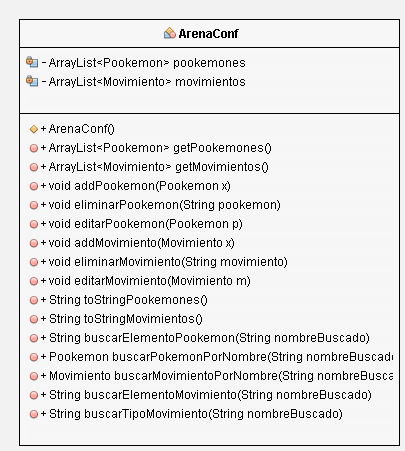
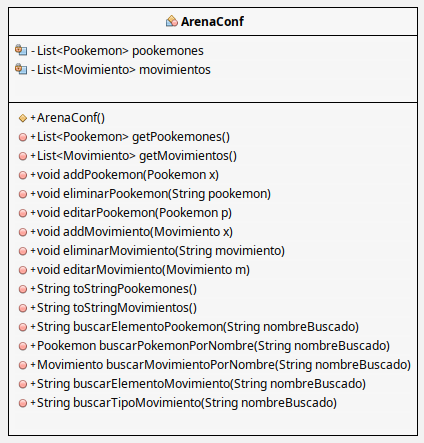
fix: diagramas de clases

Changed region(s): [[0.0, 0.0, 1.0, 0.9977]]

diff --git a/appPookemon/src/main/java/com/pml/appPookemon/datos/conf_arena/model/ArenaConf.java b/appPookemon/src/main/java/com/pml/appPookemon/datos/conf_arena/model/ArenaConf.java
@@ -2,6 +2,7 @@ package main.java.com.pml.appPookemon.datos.conf_arena.model;
 
 import java.io.Serializable;
 import java.util.ArrayList;
+import java.util.List;
 import main.java.com.pml.appPookemon.datos.pookemon.model.Movimiento;
 import main.java.com.pml.appPookemon.datos.pookemon.model.Pookemon;
 
@@ -9,19 +10,20 @@ import main.java.com.pml.appPookemon.datos.pookemon.model.Pookemon;
 
 public class ArenaConf implements Serializable{
 
-    private ArrayList<Pookemon> pookemones = new ArrayList<>();
-    private ArrayList<Movimiento> movimientos = new ArrayList<>();
+    private List<Pookemon> pookemones;
+    private List<Movimiento> movimientos;
 
     public ArenaConf() {
+        pookemones = new ArrayList<>();
+        movimientos = new ArrayList<>();
  
     }
     
-
-    public ArrayList<Pookemon> getPookemones() {
+    public List<Pookemon> getPookemones() {
         return pookemones;
     }
     
-    public ArrayList<Movimiento> getMovimientos() {
+    public List<Movimiento> getMovimientos() {
         return movimientos;
     }
     

diff --git a/appPookemon/src/main/java/com/pml/appPookemon/datos/conf_arena/controller/ArenaController.java b/appPookemon/src/main/java/com/pml/appPookemon/datos/conf_arena/controller/ArenaController.java
@@ -1,6 +1,7 @@
 package main.java.com.pml.appPookemon.datos.conf_arena.controller;
 
 import java.util.ArrayList;
+import java.util.List;
 import main.java.com.pml.appPookemon.datos.pookemon.model.Movimiento;
 import main.java.com.pml.appPookemon.datos.pookemon.model.Pookemon;
 import main.java.com.pml.appPookemon.datos.conf_arena.model.ArenaConf;
@@ -22,7 +23,7 @@ public class ArenaController {
         return arena;
     }
     
-    public ArrayList<Pookemon> getPookemones(){
+    public List<Pookemon> getPookemones(){
         return arena.getPookemones();
     }
     
@@ -41,7 +42,7 @@ public class ArenaController {
         organizadorController.setArena(arena);
     }
    
-    public ArrayList<Movimiento> getMovimientos(){
+    public List<Movimiento> getMovimientos(){
         return arena.getMovimientos();
     }
     

diff --git a/appPookemon/src/main/java/com/pml/appPookemon/datos/pookemon/model/RecuperarPPS.java b/appPookemon/src/main/java/com/pml/appPookemon/datos/pookemon/model/RecuperarPPS.java
@@ -10,7 +10,7 @@ import java.io.Serializable;
  *
  * @author sebac
  */
-public class RecuperarPPS extends Objeto implements Serializable{
+public class RecuperarPPS extends Objeto{
     
     public RecuperarPPS(int idObjeto) {
         super(idObjeto, "Recuperar PPs", "PPs", 5);

diff --git a/appPookemon/src/main/java/com/pml/appPookemon/datos/pookemon/model/Pocion.java b/appPookemon/src/main/java/com/pml/appPookemon/datos/pookemon/model/Pocion.java
@@ -10,7 +10,7 @@ import java.io.Serializable;
  *
  * @author sebac
  */
-public class Pocion extends Objeto implements Serializable{
+public class Pocion extends Objeto{
     
     public Pocion(int idObjeto) {
         super(idObjeto, "Pocion", "POCION", 20);

diff --git a/appPookemon/src/main/java/com/pml/appPookemon/datos/pookemon/model/Objeto.java b/appPookemon/src/main/java/com/pml/appPookemon/datos/pookemon/model/Objeto.java
@@ -4,7 +4,7 @@ import java.io.Serializable;
 
 
 
-public abstract class Objeto implements Serializable{
+public abstract class Objeto{
 
     private int idObjeto;
     private String nombreObjeto;
